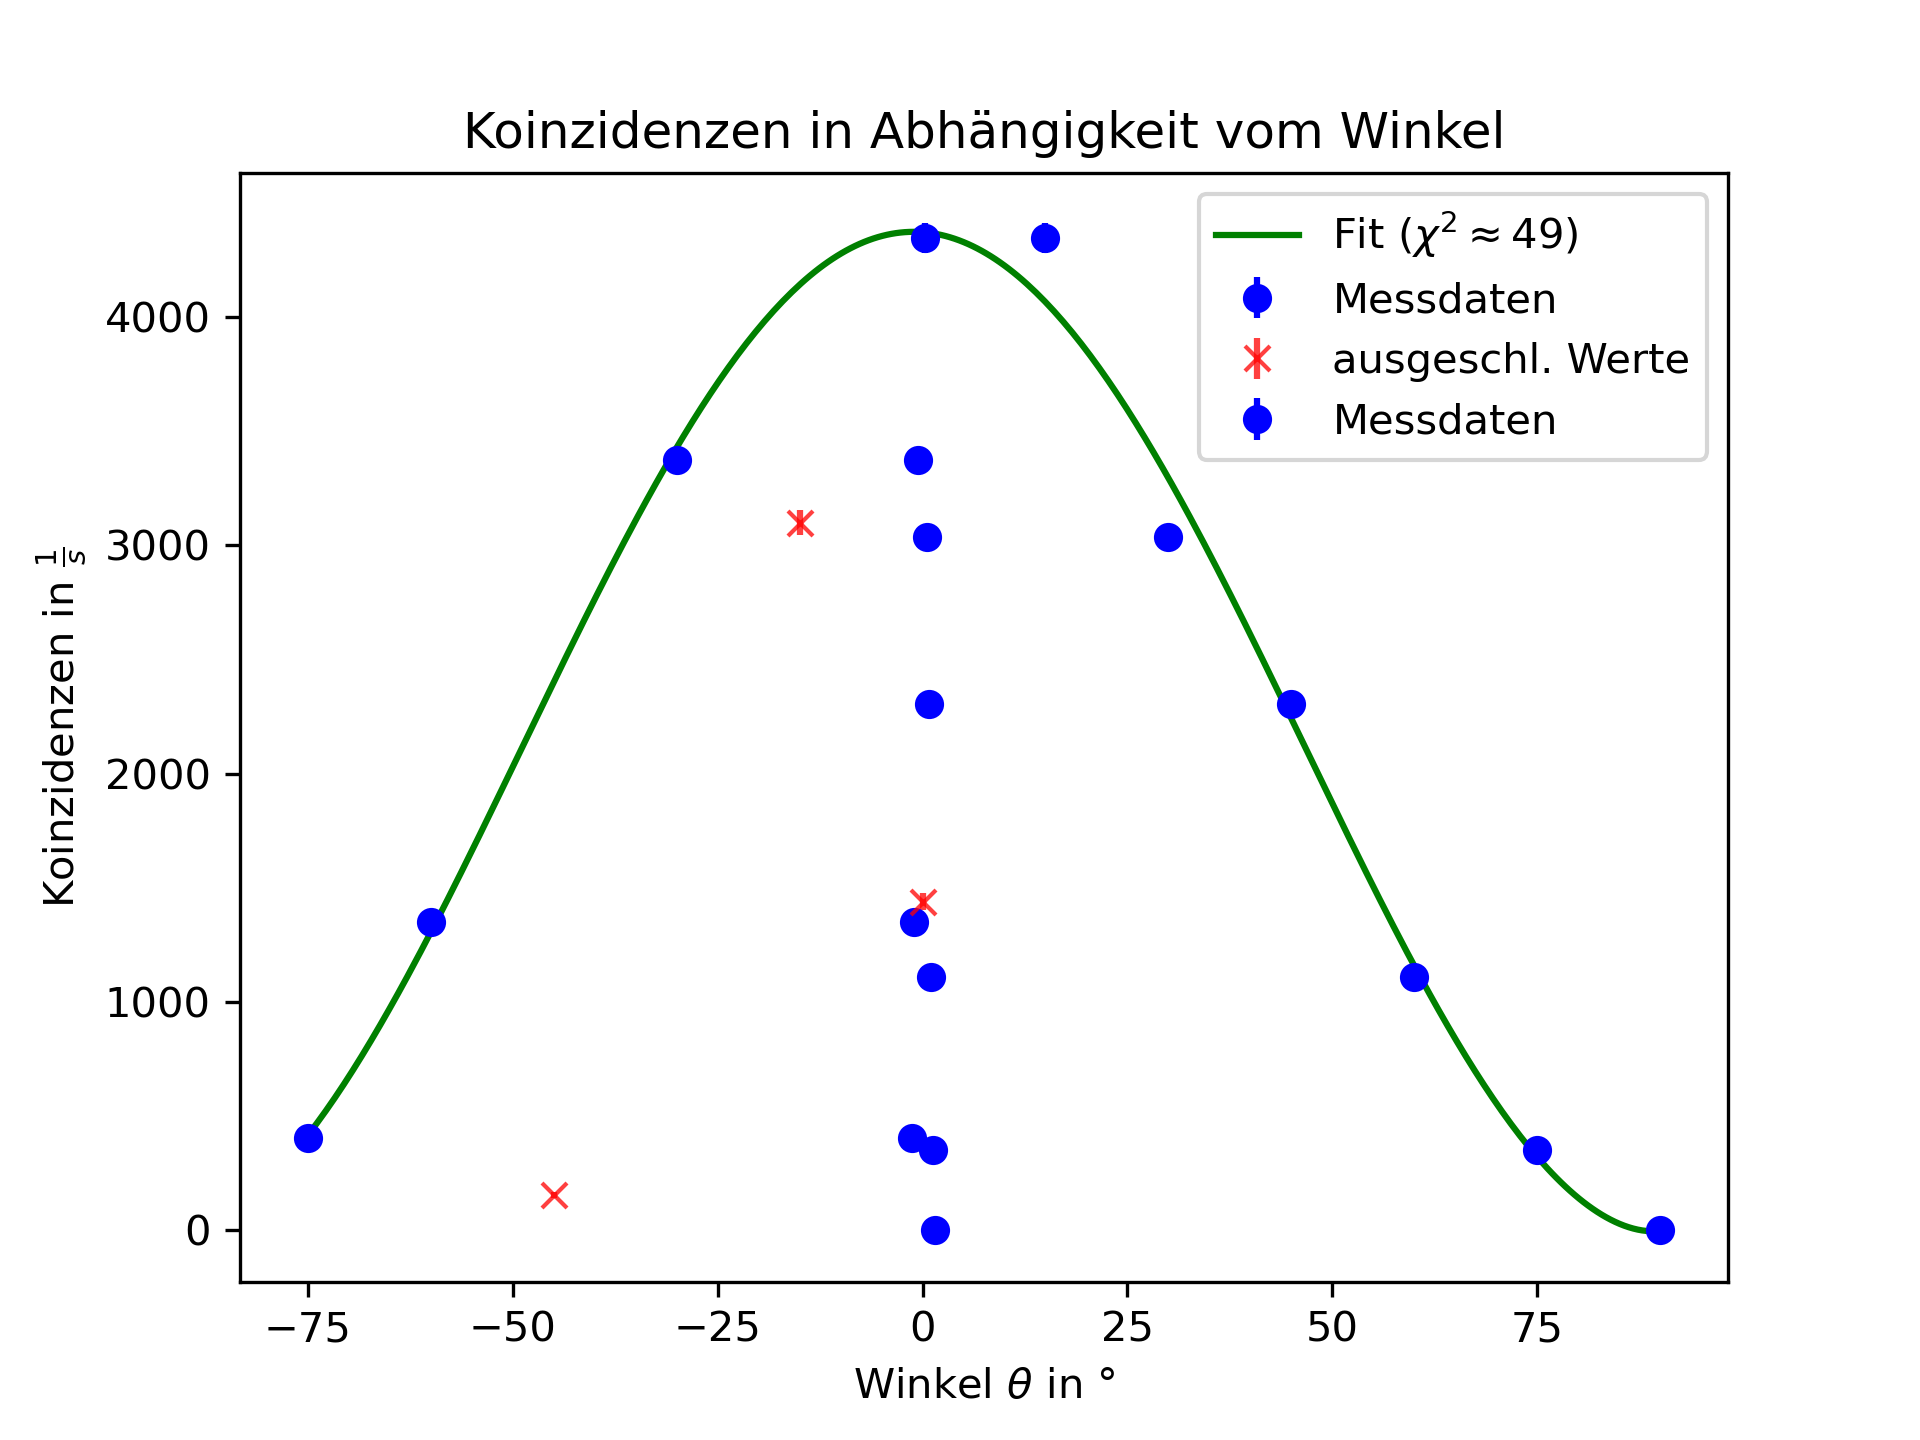
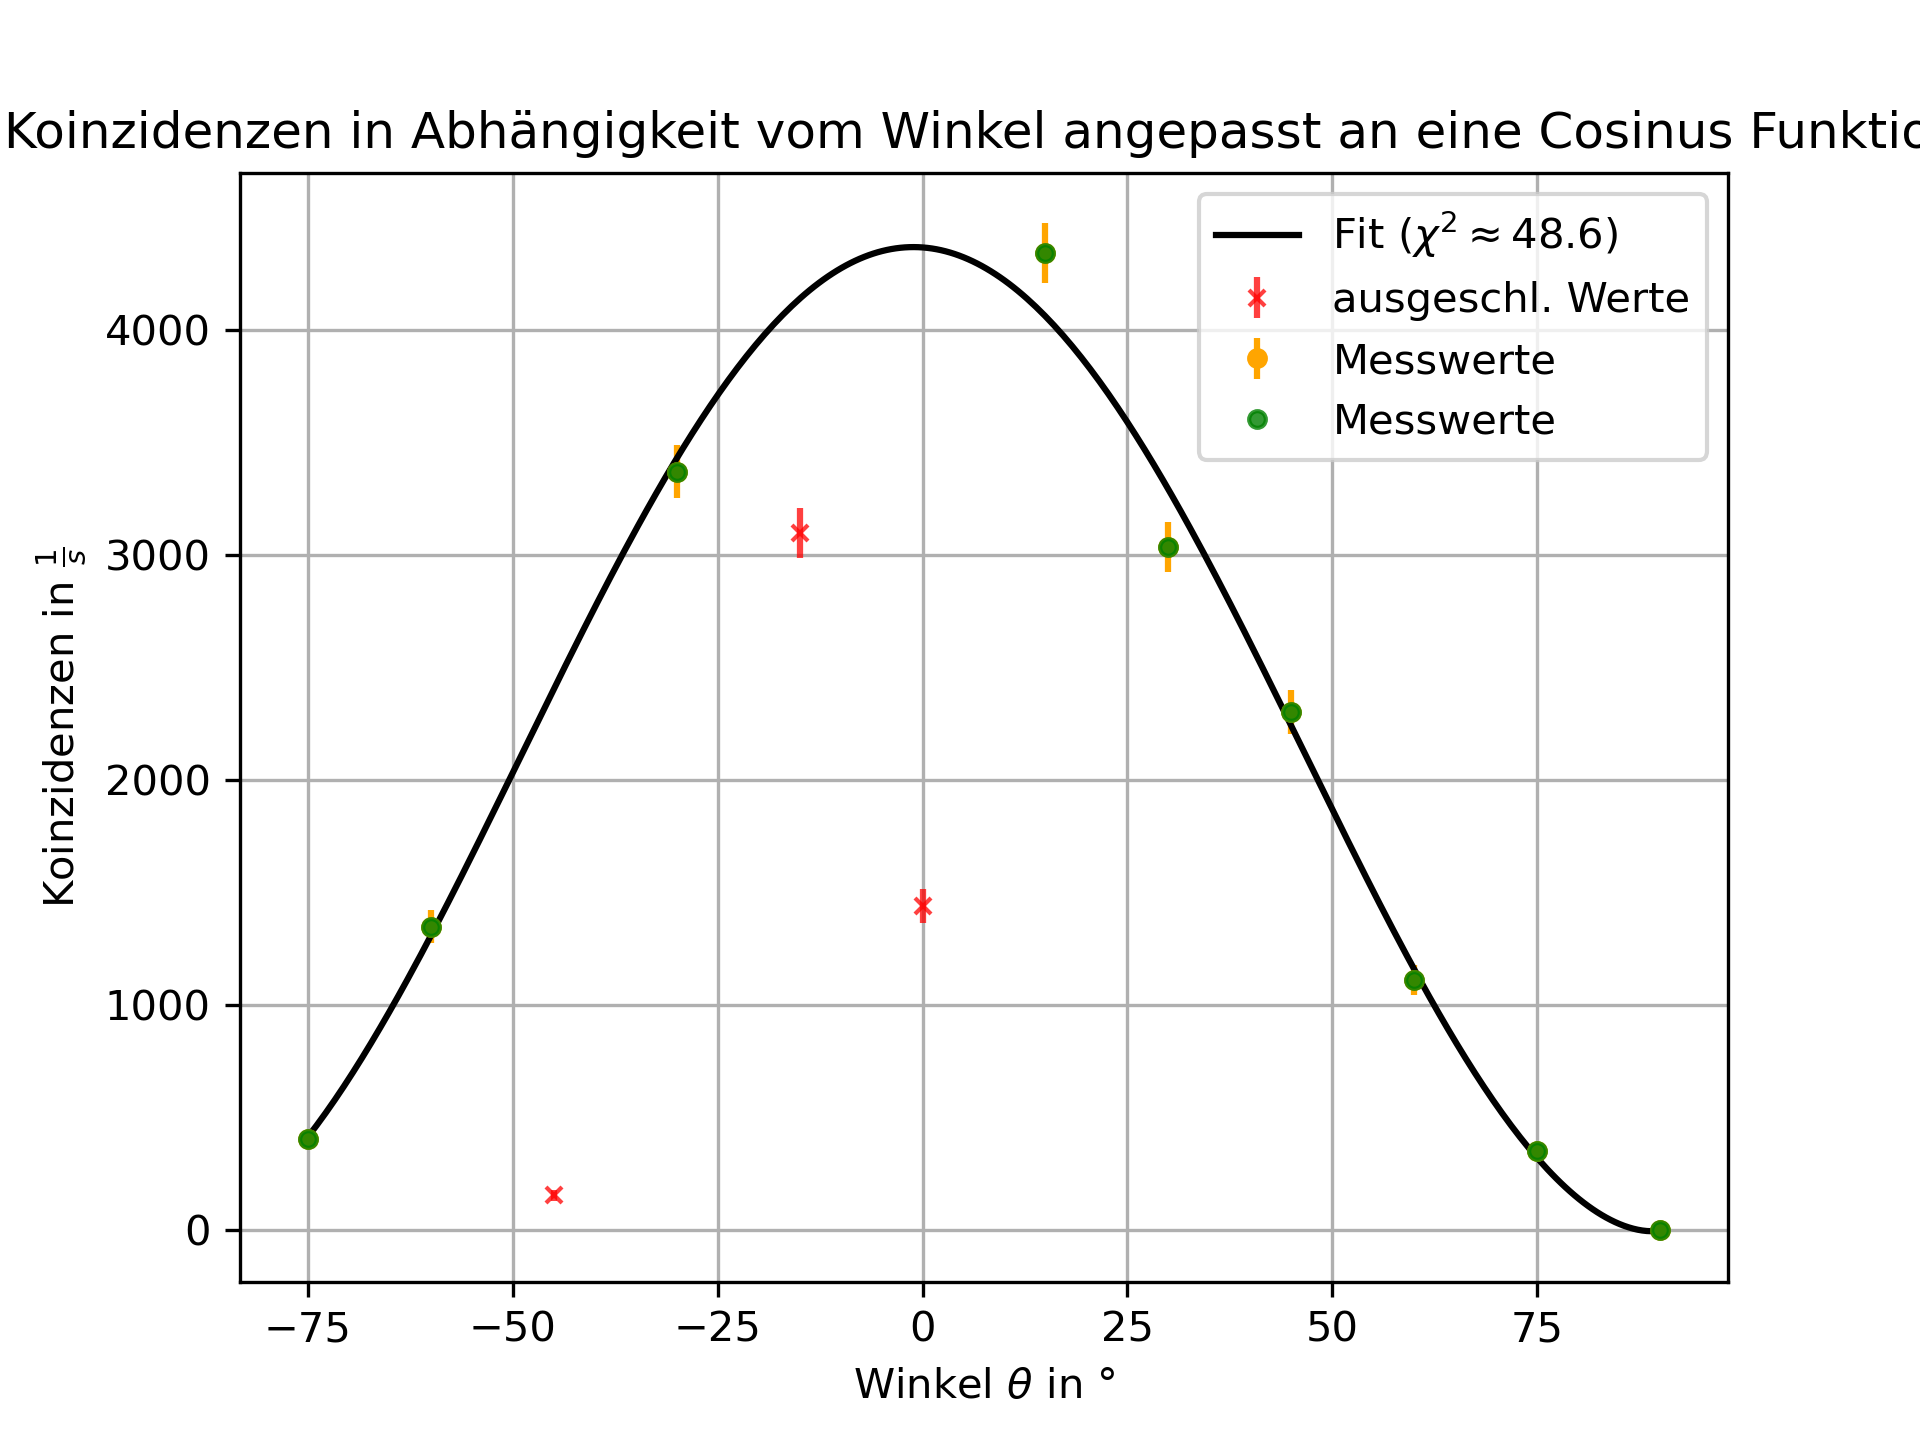
Teil 1 Auswertung fertig ohne latex

diff --git a/Praktikum 5/V518/Pulshöhenspektrum/Pulshöhenspektrum.py b/Praktikum 5/V518/Pulshöhenspektrum/Pulshöhenspektrum.py
@@ -1,0 +1,137 @@
+# IMPORT LIBRARIES
+import numpy as np
+import matplotlib.pyplot as plt
+from scipy.optimize import curve_fit
+from scipy.special import erf
+import os
+
+def save(filename):
+    plt.savefig(os.path.join(dir_path, "/../Latex/figures/", filename + ".png"), dpi=300)
+
+def landau_pdf(x, mpv, eta, A):
+    # mpv: most probable value, eta: width, A: amplitude, C: offset
+    # This is a simple approximation, not the true Landau!
+    xi = (x - mpv) / eta
+    return A * np.exp(-0.5 * (xi + np.exp(-xi))) 
+
+def gaussian(x, a, b, c, d):
+    return a * np.exp(-0.5 * ((x - b) / c)**2) + d
+
+txtfile_name_1= "Pulshöhenspektrum_Unser.txt"
+txtfile_name_2= "Pulshöhenspektrum_B109.txt"
+save_name_1 = "Pulshöhenspektrum_Unser"
+save_name_2 = "Pulshöhenspektrum_B109"
+save_name_3 = "Pulshöhenspektrum_Landau"
+xmin, xmax = 100, 800
+
+# Construct full path to data file
+dir_path = os.path.dirname(os.path.realpath(__file__))
+file_path_1 = os.path.join(dir_path, "..", "Messdaten", txtfile_name_1)
+file_path_2 = os.path.join(dir_path, "..", "Messdaten", txtfile_name_2)
+# Check if file exists
+#print("Resolved file path:", file_path)
+figure_title_1 = "Pulshöhenspektrum"
+figure_title_2 = "Unser_Pulshöhenspektrum"
+
+# Einlesen der Daten
+data_1 = np.genfromtxt(file_path_1, dtype=int, autostrip=True).T
+mask = (data_1[0] >= xmin) & (data_1[0] <= xmax)
+data_2 = np.genfromtxt(file_path_2, dtype=int, autostrip=True).T
+colors = ['black', 'red', 'purple', 'cyan','indigo', 'yellow']
+
+channel_1 = data_1[0]
+channel_2 = data_2[0]
+N_1 = data_1[1]
+N_1_err = np.sqrt(data_1[1])
+#N_1[N_1 == 0] = 1e-6
+N_2 = data_2[1]
+N_2_err = np.sqrt(data_2[1])
+#N_2[N_2 == 0] = 1e-6
+channel_2_cut = data_2[0][mask]
+N_2_cut = data_2[1][mask]
+N_2_err_cut = N_2_err[mask]
+N_2_err_cut[N_2_err_cut < 1e-4] = 1e-4
+
+plt.errorbar(channel_1, N_1, yerr=N_1_err, fmt='o', label=f'Messfehler', color='orange', ms=2, zorder=1, alpha=0.8)
+plt.errorbar(channel_1, N_1, fmt='o', label='Messwerte', color='g', ms=2, zorder=2, alpha=0.8)
+plt.xlabel(r'Kanalnummer $b$')
+plt.ylabel(r'Ticks $N$')
+plt.legend()
+plt.grid(True)
+plt.title(figure_title_1)
+save(dir_path + "/../Latex/figures/" + save_name_1)
+
+plt.figure()
+plt.errorbar(channel_2, N_2, yerr=N_2_err, fmt='o', label=f'Messfehler', color='orange', ms=2, zorder=1, alpha=0.8)
+plt.errorbar(channel_2, N_2, fmt='o', label='Messwerte', color='g', ms=2, zorder=2, alpha=0.8)
+plt.legend()
+plt.grid(True)
+plt.title(figure_title_2)
+save(dir_path + "/../Latex/figures/" + save_name_2)
+
+valid = (N_2_cut > 0) & np.isfinite(N_2_cut) & np.isfinite(N_2_err_cut)
+channel_2_cut_fit = channel_2_cut[valid]
+N_2_cut_fit = N_2_cut[valid]
+N_2_err_cut_fit = N_2_err_cut[valid]
+
+popt, pcov = curve_fit(
+    landau_pdf,
+    channel_2_cut_fit, N_2_cut_fit,
+    sigma=N_2_err_cut_fit,
+    absolute_sigma=True,
+    maxfev=100000,
+    p0=[250, 30, 40],
+    bounds=(
+        [0, 1, 10],   # eta mindestens 1
+        [np.inf, 200, np.inf]
+    )
+)
+fit_values = popt
+fit_value_errors = np.sqrt(np.diag(pcov))
+residuals = N_2_cut_fit - landau_pdf(channel_2_cut_fit, *popt)
+chi_squared = np.sum((residuals / N_2_err_cut_fit) ** 2)
+
+popt2, pcov2 = curve_fit(
+    gaussian,
+    channel_2_cut_fit,
+    N_2_cut_fit,
+    sigma=N_2_err_cut_fit,
+    absolute_sigma=True,
+    maxfev=1000000,
+    p0=[max(N_2_cut_fit), channel_2_cut_fit[np.argmax(N_2_cut_fit)], 30, 0]
+)
+fit_values2 = popt2
+fit_value_errors2 = np.sqrt(np.diag(pcov2))
+residuals2 = N_2_cut_fit - gaussian(channel_2_cut_fit, *popt2)
+chi_squared2 = np.sum((residuals2 / N_2_err_cut_fit) ** 2)
+
+for j in range(len(fit_values)):
+    print(f"{j}:\t{fit_values[j]}\t± {fit_value_errors[j]}")
+print(f"\tChi: {chi_squared}")
+for j in range(len(fit_values2)):
+    print(f"{j}:\t{fit_values2[j]}\t± {fit_value_errors2[j]}")
+print(f"\tChi: {chi_squared2}")
+
+plt.figure()
+plt.errorbar(channel_2_cut_fit, N_2_cut_fit, yerr=N_2_err_cut_fit, fmt='o', label='Messwerte', color='orange', ms=2)
+plt.errorbar(channel_2_cut_fit, N_2_cut_fit, fmt='o', label='Messwerte', color='g', ms=2, zorder=2, alpha=0.8)
+x_fit = np.linspace(min(channel_2_cut_fit), max(channel_2_cut_fit), 300)
+plt.plot(x_fit, landau_pdf(x_fit, *popt), color='black', label=r"Fit ($\chi^2 \approx $" + f"{int(np.round(chi_squared,0))}" + ")")
+plt.xlabel(r'Kanalnummer $b$')
+plt.ylabel(r'Ticks $N$')
+plt.legend()
+plt.grid(True)
+plt.title("Pulshöhenspektrum (Bereich 100–800) angepasst an eine Landauverteilung")
+save(dir_path + "/../Latex/figures/" + save_name_3)
+
+plt.figure()
+plt.errorbar(channel_2_cut_fit, N_2_cut_fit, yerr=N_2_err_cut_fit, fmt='o', label='Messwerte', color='orange', ms=2)
+plt.errorbar(channel_2_cut_fit, N_2_cut_fit, fmt='o', label='Messwerte', color='g', ms=2, zorder=2, alpha=0.8)
+x_fit = np.linspace(min(channel_2_cut_fit), max(channel_2_cut_fit), 300)
+plt.plot(x_fit, gaussian(x_fit, *popt2), color='black', label=r"Fit ($\chi^2 \approx $" + f"{int(np.round(chi_squared2,0))}" + ")")
+plt.xlabel(r'Kanalnummer $b$')
+plt.ylabel(r'Ticks $N$')
+plt.legend()
+plt.grid(True)
+plt.title("Pulshöhenspektrum (Bereich 100–800) angepasst an eine Gaußverteilung")
+save(dir_path + "/../Latex/figures/" + save_name_3 + "_gaussian")

diff --git a/Praktikum 5/V518/Winkelverteilung/Winkelverteilung.py b/Praktikum 5/V518/Winkelverteilung/Winkelverteilung.py
@@ -4,8 +4,11 @@ from scipy.optimize import curve_fit
 import os
 #from np_to_latex import to_latex_table
 
-def cosine(x, a, b, c, d):
-    return a * np.abs(np.cos(x + b))**c + d
+def cosine(x, a, b, c, d, m):
+    return a * np.abs(np.cos(x + b))**c + m*x + d
+
+def gaussian(x, a, b, c, d):
+    return a * np.exp(-0.5 * ((x - b) / c)**2) + d
 
 dir_path = os.path.dirname(os.path.realpath(__file__))
 print(dir_path)
@@ -46,29 +49,53 @@ plt.grid()
 plt.legend()
 plt.savefig(dir_path + "/../Latex/figures/WinkelverteilungPlot.png", dpi=300)
 
-p0 = [4000, 0, 2, 100]
+p0 = [4000, 0, 2, 100, 0]  # Startwerte für die Parameter [a, b, c, d, m]
 
 popt, pcov = curve_fit(f=cosine, xdata=Winkel, ydata=Koinzidenzen, sigma=Koinzidenzen_err, absolute_sigma=True, maxfev=1000000, p0=p0)
 fit_values = popt
-fit_value_errors = np.diag(pcov)
+fit_value_errors = np.sqrt(np.diag(pcov))
 residuals = Koinzidenzen - cosine(Winkel, *popt)
 chi_squared = np.sum((residuals / Koinzidenzen_err) ** 2)
 
+popt2, pcov2 = curve_fit(f=gaussian, xdata=Winkel, ydata=Koinzidenzen, sigma=Koinzidenzen_err, absolute_sigma=True, maxfev=1000000, p0=[4000, 0, 2, 100])
+fit_values2 = popt2
+fit_value_errors2 = np.sqrt(np.diag(pcov2))
+residuals2 = Koinzidenzen - gaussian(Winkel, *popt2)
+chi_squared2 = np.sum((residuals2 / Koinzidenzen_err) ** 2)
 
-for j in range(3):
+
+
+for j in range(len(fit_values)):
     print(f"{j}:\t{fit_values[j]}\t± {fit_value_errors[j]}")
 print(f"\tChi: {chi_squared}")
 
+for j in range(len(fit_values2)):
+    print(f"{j}:\t{fit_values2[j]}\t± {fit_value_errors2[j]}")
+print(f"\tChi: {chi_squared2}")
+
+plt.figure()
 plt.xlabel("Winkel $\\theta$ in $°$")
 plt.ylabel("Koinzidenzen in $\\frac{1}{s}$")
-plt.title("Koinzidenzen in Abhängigkeit vom Winkel")
-#plt.errorbar(fit_values, cosine(fit_values, *popt), yerr=Koinzidenzen_err, fmt='o', label=r"Linearer Fit ($\chi^2 \approx $" + f"{int(np.round(chi_squared,0))}" + ")", color='g', ms=4, zorder=3, alpha=1)
-plt.errorbar(np.rad2deg(Winkel_aus), Koinzidenzen_aus, yerr=Koinzidenzen_err_aus, fmt='x', color='r', alpha=0.75, label='ausgeschl. Werte')
-plt.errorbar(np.rad2deg(Winkel), Koinzidenzen, yerr=Koinzidenzen_err, fmt='o', color='b', label='Messdaten')
+plt.title("Koinzidenzen in Abhängigkeit vom Winkel angepasst an eine Cosinus Funktion")
+plt.errorbar(np.rad2deg(Winkel_aus), Koinzidenzen_aus, yerr=2*Koinzidenzen_err_aus, fmt='x', color='r', alpha=0.75, label='ausgeschl. Werte', ms=4)
+plt.errorbar(np.rad2deg(Winkel), Koinzidenzen, yerr=2*Koinzidenzen_err, fmt='o', color='orange', label='Messwerte', ms=4)
+plt.errorbar(np.rad2deg(Winkel), Koinzidenzen, fmt='o', color='g', label='Messwerte', ms=4, zorder=2, alpha=0.8)
 x_fit = np.linspace(min(Winkel), max(Winkel), 300)
-plt.plot(np.rad2deg(x_fit), cosine(x_fit, *popt), color='g', label=r"Fit ($\chi^2 \approx $" + f"{int(np.round(chi_squared,0))}" + ")")
-
-plt.grid()
+plt.plot(np.rad2deg(x_fit), cosine(x_fit, *popt), color='black', label=r"Fit ($\chi^2 \approx $" + f"{(np.round(chi_squared,1))}" + ")")
+plt.grid(True)
 plt.legend()
-
 plt.savefig(dir_path + "/../Latex/figures/cosAnpassung.png", dpi=300)
+
+
+plt.figure()
+plt.xlabel("Winkel $\\theta$ in $°$")
+plt.ylabel("Koinzidenzen in $\\frac{1}{s}$")
+plt.title("Koinzidenzen in Abhängigkeit vom Winkel angepasst an eine Gaußverteilung")
+plt.errorbar(np.rad2deg(Winkel_aus), Koinzidenzen_aus, yerr=2*Koinzidenzen_err_aus, fmt='x', color='r', alpha=0.75, label='ausgeschl. Werte', ms=4)
+plt.errorbar(np.rad2deg(Winkel), Koinzidenzen, yerr=2*Koinzidenzen_err, fmt='o', color='orange', label='Messwerte', ms=4)
+plt.errorbar(np.rad2deg(Winkel), Koinzidenzen, fmt='o', color='g', label='Messwerte', ms=4, zorder=2, alpha=0.8)
+x_fit = np.linspace(min(Winkel), max(Winkel), 300)
+plt.plot(np.rad2deg(x_fit), gaussian(x_fit, *popt2), color='black', label=r"Fit ($\chi^2 \approx $" + f"{(np.round(chi_squared2,1))}" + ")")
+plt.grid(True)
+plt.legend()
+plt.savefig(dir_path + "/../Latex/figures/gaussAnpassung.png", dpi=300)

diff --git a/Praktikum 5/V518/Winkelverteilung/tempCodeRunnerFile.py b/Praktikum 5/V518/Winkelverteilung/tempCodeRunnerFile.py
@@ -1,1 +1,3 @@
-plt.axvline(x=70, color='red', linestyle='-', linewidth=1)
+for j in range(3):
+    print(f"{j}:\t{fit_values[j]}\t± {fit_value_errors[j]}")
+print(f"\tChi: {chi_squared}")
